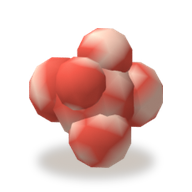
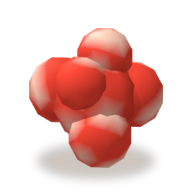
coast r5f: per-type piece footprint to island 0.84, coral red to strawberry S, scallop per-face ribs, regenerated aabbs

diff --git a/tools/coast-scene/build_coast.py b/tools/coast-scene/build_coast.py
@@ -21,6 +21,7 @@ def add_bm(name,bm,colfn,M=None):
     vs=[v.co.copy() for v in f.verts]
     if M:vs=[M@v for v in vs]
     if name.startswith('piece_'):   # r5d: soft painted shading — smooth vertex normals for the baked paint (no facets)
+      global _FC;_FC=sum(vs,Vector())/len(vs)   # r5f: face centre for per-face bands (scallop ribs)
       R3=(M.to_3x3() if M else Matrix.Identity(3));cs=[colfn(vv,_N((R3@v.normal).normalized())) for vv,v in zip(vs,f.verts)]
     else:cs=[colfn(v,f) for v in vs]
     for i in range(1,len(vs)-1):
@@ -353,7 +354,7 @@ for nm,off,wid,z in [('foam',0.0,0.34,-0.012),('foam_inner',0.55,0.18,-0.03)]:
     bm=bmesh.new();a=bm.verts.new((x,ya,z));b=bm.verts.new((x2,yc,z));c=bm.verts.new((x2,yd,z));d=bm.verts.new((x,yb,z));bm.faces.new((a,b,c,d))
     add_bm(nm,bm,lambda p,f:Vector((1,1,1)));bm.free()
 # ===== 6. pieces (6 types, thick, single meshes, ≤200 tris each) =====
-PC={'conch':'#A8642A','star':'#D9731A','coral':'#F05A4C','float':'#4374BC','scallop':'#348A7C','badge':'#468F30'}   # r5e: a further step deeper (median toward 2.0)   # r5d: one step deeper vs the darker sage slab (floor 1.19)
+PC={'conch':'#A8642A','star':'#D9731A','coral':'#FF4A3A','float':'#4374BC','scallop':'#348A7C','badge':'#468F30'}   # r5e: a further step deeper (median toward 2.0)   # r5d: one step deeper vs the darker sage slab (floor 1.19)
 _PC_R5C=None   # r5c: conch, starfish, coral knob, blue mussel, teal scallop, kelp leaf   # r5b: island-calibrated (acorn/strawberry/blueberry/leaf/shell value+saturation)   # r5: pastel natural (scallop = island teal band)
 LDIR=Vector((-0.45,0.35,0.82)).normalized()   # r5c: island sprite key light (top-left), baked; pieces render unlit (matte, no specular)
 def paint(c,n,hi=1.12,lo=0.62):   # r5d: clear light/dark sides (was 1.1/0.8)
@@ -399,7 +400,7 @@ for i in range(5):   # r5e: raised dots along each arm (island-sprite detail)
 # coral: trunk + 3 branches merged, dark base
 new('piece_coral')   # r5c: rounded knob coral, matte (replaces trunk+rim)
 for (x,y,z,r) in [(0,0,0.45,0.46),(0.38,0.12,0.36,0.34),(-0.36,0.16,0.38,0.34),(0.05,-0.38,0.34,0.34),(0.1,0.3,0.74,0.3),(-0.15,-0.1,0.82,0.28)]:
-  bm=ico(S*r,2);add_bm('piece_coral',bm,lambda p,f:paint(mix(hx(PC['coral']),hx('#FFE0CC'),0.85) if noise.noise(p*11)>0.12 else hx(PC['coral']),f.normal),Matrix.Translation((x*S,y*S,z*S)));bm.free()
+  bm=ico(S*r,2);add_bm('piece_coral',bm,lambda p,f:paint(mix(hx(PC['coral']),hx('#FFE0CC'),0.85) if noise.noise(p*11)>0.22 else hx(PC['coral']),f.normal),Matrix.Translation((x*S,y*S,z*S)));bm.free()
 # r5c: blue mussel (replaces the glossy glass float): elongated rounded shell, matte
 new('piece_float');bm=bmesh.new();bmesh.ops.create_uvsphere(bm,u_segments=12,v_segments=10,radius=1)
 _BL=bm.verts.layers.int.new('band')
@@ -409,7 +410,7 @@ for v in bm.verts:
 _MF=Matrix.Translation((0,0,S*0.22))@Matrix.Rotation(0.6,4,'Z');_BK={tuple(round(c,4) for c in (_MF@v.co)):v[_BL] for v in bm.verts}
 add_bm('piece_float',bm,lambda p,f:paint(mix(hx(PC['float']),hx('#C4DBF6'),0.72) if _BK.get(tuple(round(c,4) for c in p),0) else mix(hx(PC['float']),hx('#152B5C'),0.66),f.normal),_MF);bm.free()
 # scallop: ribbed fan, solid
-new('piece_scallop');bm=bmesh.new();N=10;RIB={}   # r5e: upright ribbed fan (island shell aspect), leaning back 40 deg, hinge on the slab
+new('piece_scallop');bm=bmesh.new();N=6;RIB={}   # r5e: upright ribbed fan (island shell aspect), leaning back 40 deg, hinge on the slab
 LEAN=math.radians(45);R_=S*1.32;T_=S*0.08
 def _lean(x,y,z):return (x,y*math.cos(LEAN)+z*math.sin(LEAN),-y*math.sin(LEAN)+z*math.cos(LEAN))
 hf=bm.verts.new(_lean(0,-T_,0.03));hb=bm.verts.new(_lean(0,T_,0.03));fr=[];bk=[]
@@ -422,8 +423,9 @@ for i in range(N):
 bm.faces.new((hf,fr[0],bk[0],hb));bm.faces.new((hf,hb,bk[N],fr[N]));bmesh.ops.recalc_face_normals(bm,faces=bm.faces)
 def _scol(p,f):
   # rib shading: angle around the hinge in the un-leaned fan plane
-  y=p.y*math.cos(LEAN)-p.z*math.sin(LEAN);z=p.y*math.sin(LEAN)+p.z*math.cos(LEAN);a=math.atan2(z-0.03,p.x);k=(a-math.pi*0.3)/(math.pi*0.4/N)
-  c=hx(PC['scallop'])*(1.08 if abs(k-round(k))<0.22 and round(k)%2 else 0.9)
+  q=_FC;y=q.y*math.cos(LEAN)-q.z*math.sin(LEAN);zq=q.y*math.sin(LEAN)+q.z*math.cos(LEAN);k=(math.atan2(zq-0.03,q.x)-math.pi*0.3)/(math.pi*0.4/N)
+  z=p.y*math.sin(LEAN)+p.z*math.cos(LEAN)
+  c=hx(PC['scallop'])*(1.25 if int(math.floor(k))%2 else 0.7)
   if math.hypot(p.x,z-0.03)>R_*0.9:c=mix(c,hx('#BDEBDF'),0.35)
   return paint(c,f.normal)
 add_bm('piece_scallop',bm,_scol);bm.free()
@@ -450,6 +452,7 @@ for k_ in range(4):   # r5e: side veins (raised thin strips), 4 per side
     for t_ in sb.faces:pass
     add_bm('piece_badge',sb,lambda p,f:paint(hx('#A9D46A'),Vector((0,0,1))),Matrix.Rotation(0.5,4,'Z'));sb.free()
 add_bm('piece_badge',bm,lambda p,f:paint(mix(hx(PC['badge']),hx('#A9D46A'),0.7) if abs(p.x)<S*0.035 else hx(PC['badge']),f.normal),Matrix.Rotation(0.5,4,'Z'));bm.free()
+FSC={'conch':1.25,'star':0.89,'coral':1.18,'float':0.92,'scallop':1.06,'badge':1.29}   # r5f: per-type footprint -> island median 0.84 of cell
 ZK={'conch':1.05,'star':1.5,'coral':1.1,'float':1.5,'scallop':1.0,'badge':1.7}   # r5d: chunky upright volume (visible sides from the board camera)
 for k in PC:
   m=MESH['piece_'+k];m['tris']=[tuple(Vector((v.x,v.y,v.z*ZK[k])) for v in t) for t in m['tris']]
@@ -659,7 +662,7 @@ for r in range(7):
 for (r,c,x,y,z) in SL:
   zz=z+SLAB_TOP-0.05      # sits on the shell bed in the dry hollow
   _dy=0.2 if LAY[r][c]=='scallop' else 0.0   # r5e2: scallop shadow under the leaning shell body
-  put('contact',x+0.05,y-0.04+_dy,zz+0.004,0,1.2,piece=True,receive_shadow=False);put('piece_'+LAY[r][c],x,y+0.03,zz,random.uniform(-.15,.15),1.24,piece=True,cell=[r,c])   # r5c: island fill ratio (~0.75 cell), sits slightly high like the sprites
+  put('contact',x+0.05,y-0.04+_dy,zz+0.004,0,1.2,piece=True,receive_shadow=False);put('piece_'+LAY[r][c],x,y+0.03,zz,random.uniform(-.15,.15),1.24*FSC[LAY[r][c]],piece=True,cell=[r,c])   # r5c: island fill ratio (~0.75 cell), sits slightly high like the sprites
 # props / animals
 put('arrival_steps',0,0,0);put('board_rim',0,0,0,receive_shadow=True)
 for (dx_,dy_) in STEP_DRIFT:put('drift',dx_,dy_,ground_z(dx_,dy_)-0.005,(dx_*3.1+dy_)%6.28,0.55)   # r4d: sand drift against the step base
